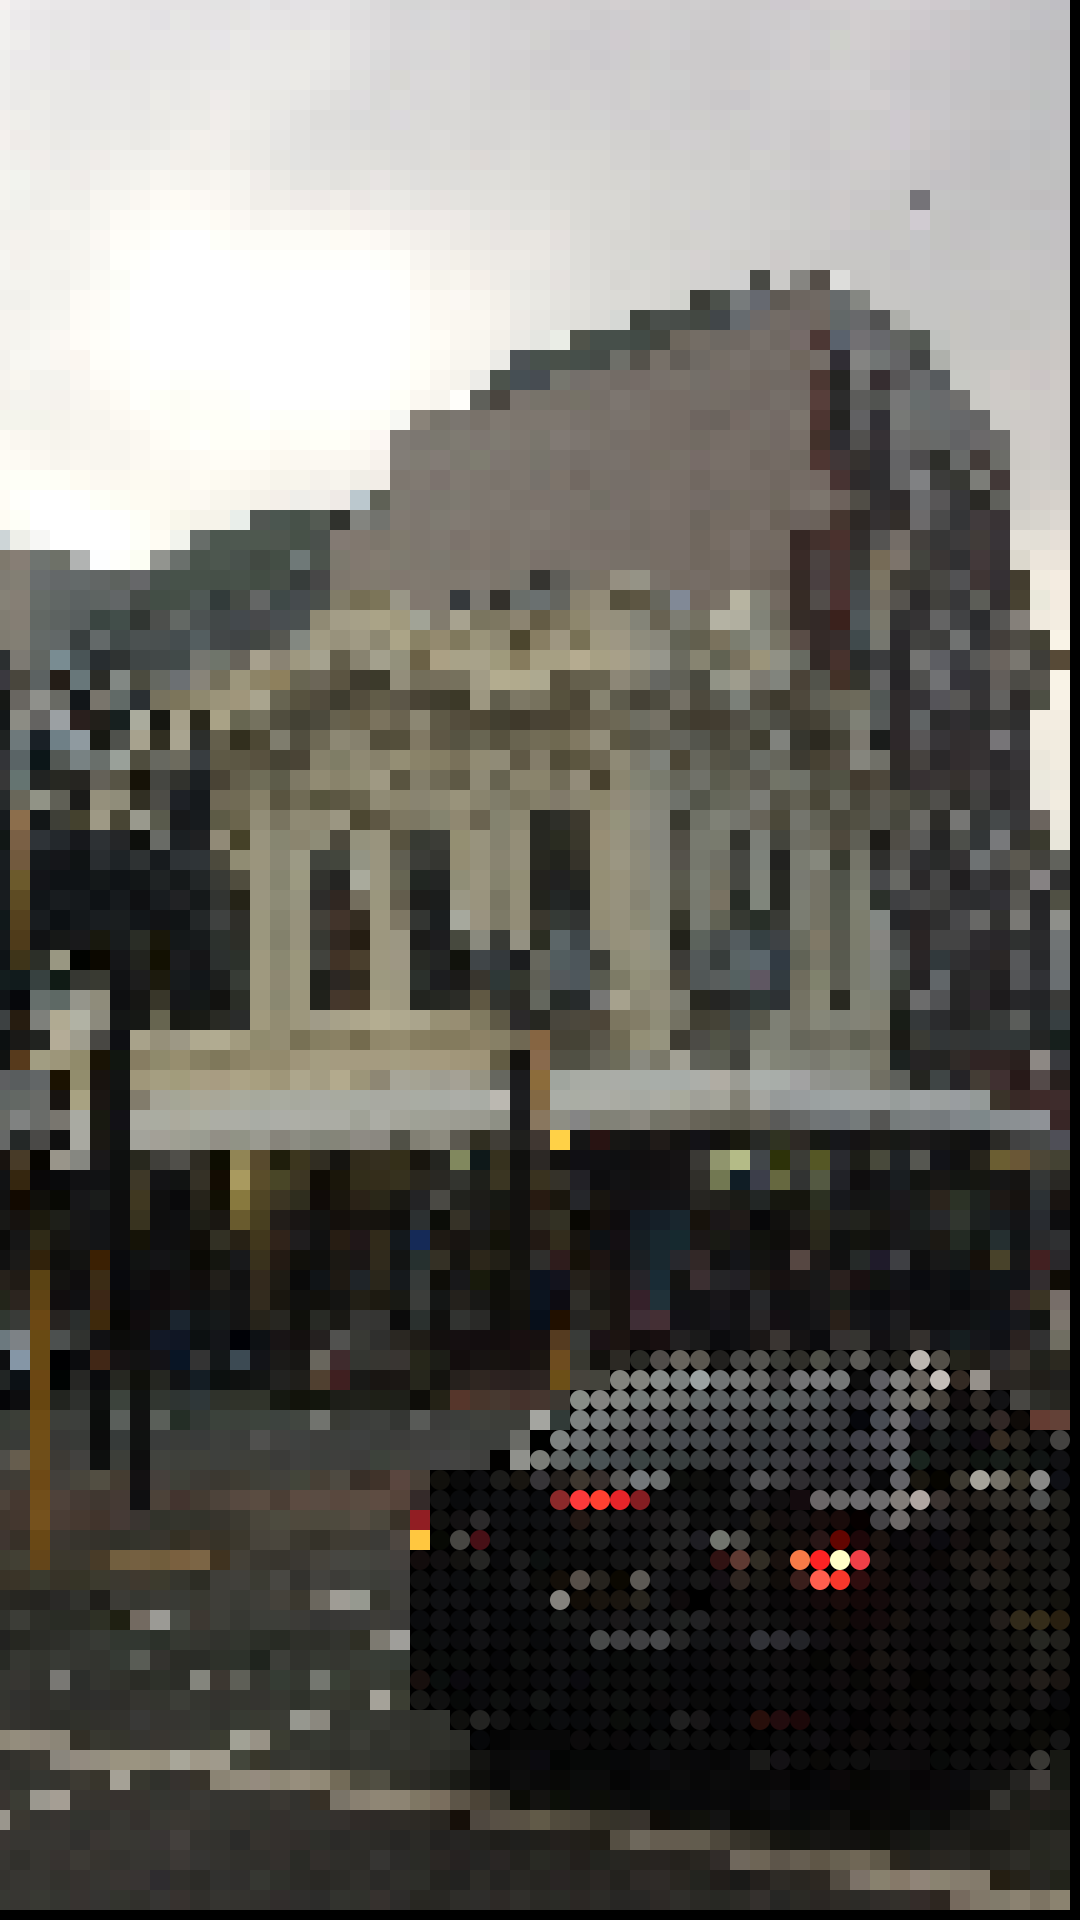
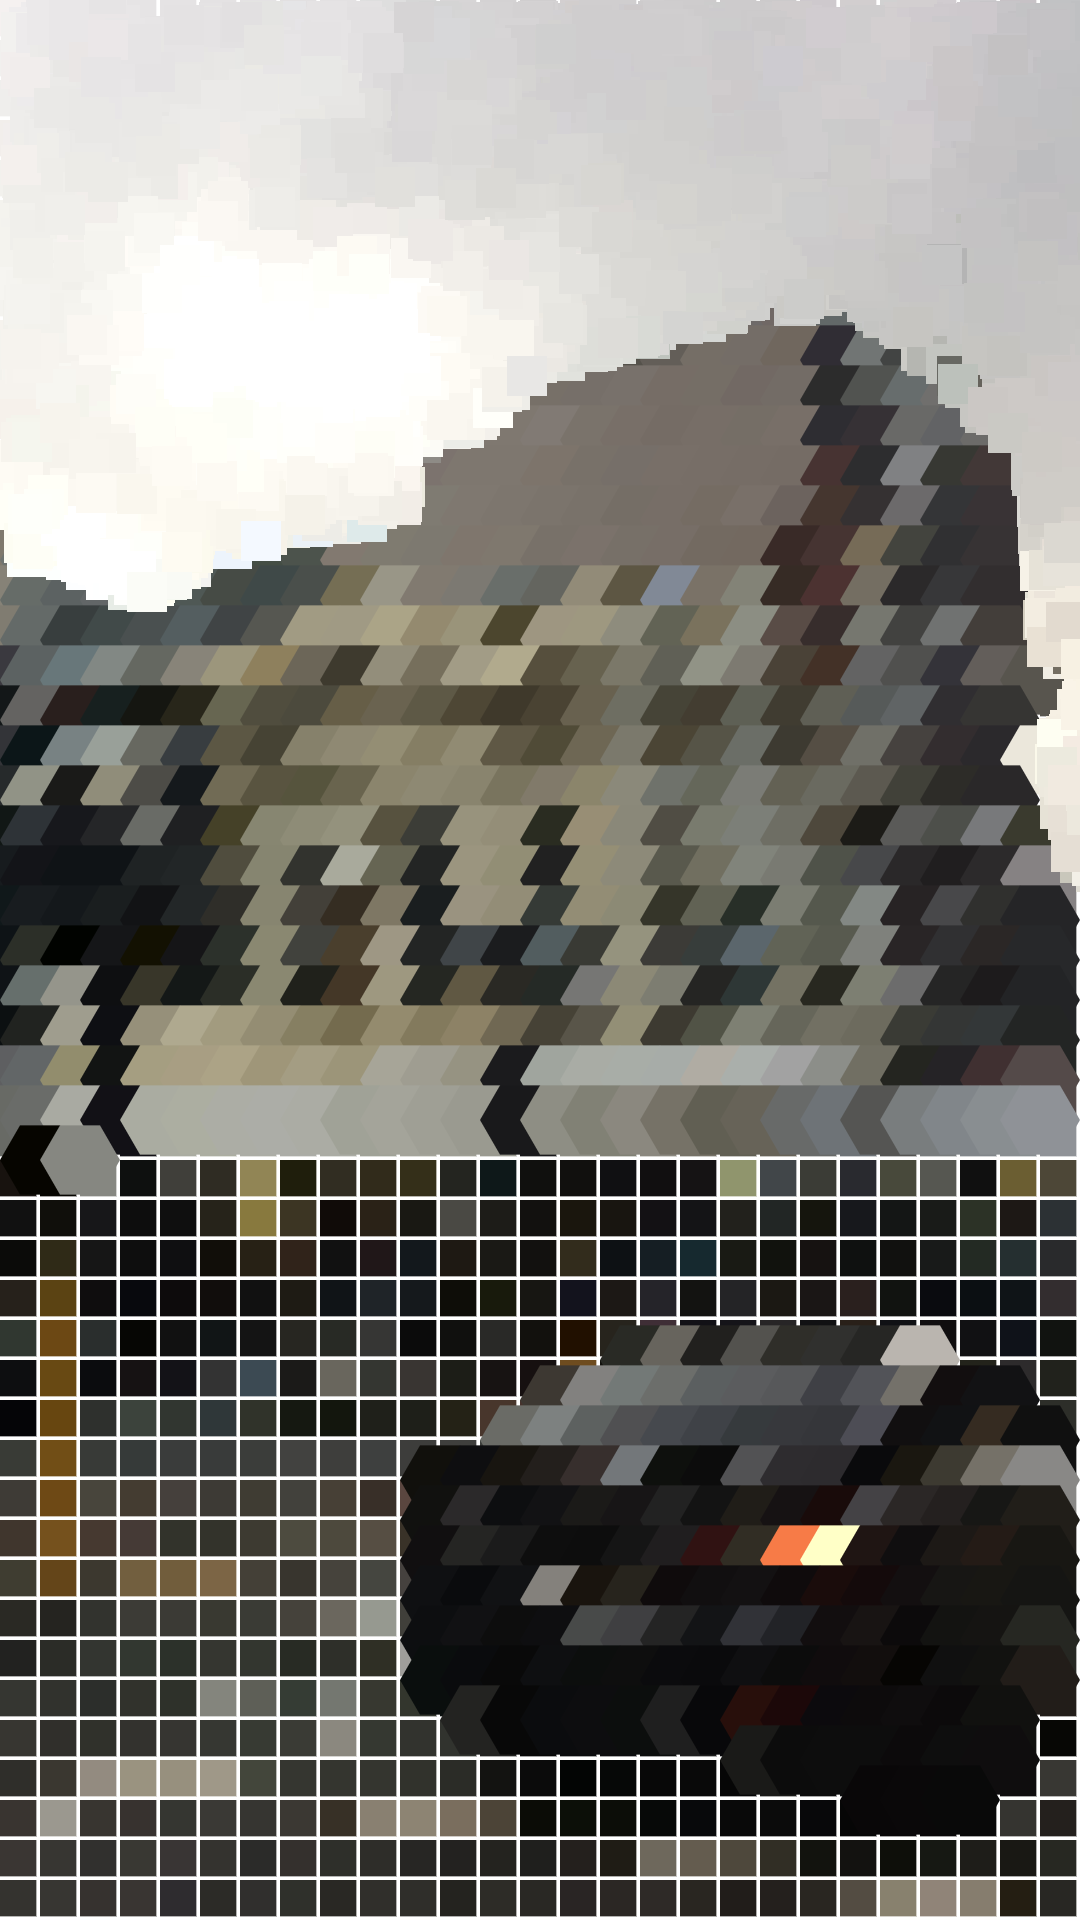
Replaced image and updated RME

diff --git a/sketch.js b/sketch.js
@@ -12,7 +12,7 @@ const pointSize = 40;
 function preload() {
   sourceImg = loadImage("input_3.jpg");
   maskImg = loadImage("mask_3.png");
-  maskTwoImg = loadImage("mask_1_2.png");
+  maskTwoImg = loadImage("mask_3_2.png");
 }
 
 function setup () {
@@ -61,14 +61,14 @@ function draw () {
   }
   renderCounter ++;
 
-  /* First Loop */
+  /* First Loop Render */
   if(renderCounter > 1920/pointSize && !SecondDraw) {
     console.log("Done!");
     SecondDraw = true;
     //noLoop();
     // saveBlocksImages();
   }
-  /* Second Loop */
+  /* Second Loop Render */
   if(SecondDraw) {
 		renderCounterTwo++;
 		if(renderCounterTwo > DrawCalls) {

diff --git a/README.md b/README.md
@@ -1,5 +1,12 @@
 ## Creative Coding 2: Custom Pixel
 
+Fri 1st June
+I experimented with the smartmask but because my theme doesnt focus on people/animals and focuses more on the enviroment it didnt highlight
+what I wanted. For my images I wanted to the cultural enviroment to be masked differently to the natural enviroment to show contrast
+between the 2. For example my middle picture is masked in a certain way that the natural tree leaves are random squares and the cultural
+are in ordered squares as if to show that humans have affected and almost 'ordered' this area for a pathway. With the lightpost and
+bench masked with a 3D hex shape to connect the top 'natural enviroment' to the bottom 'cultural enviroment.'
+
 Tue 29th May
 I have worked out how to create two masks and implement them into my artwork piece. I have also taken polygon code from 
 https://p5js.org/es/examples/form-regular-polygon.html to create an almost 3D affect of the bushes in the first picture.
